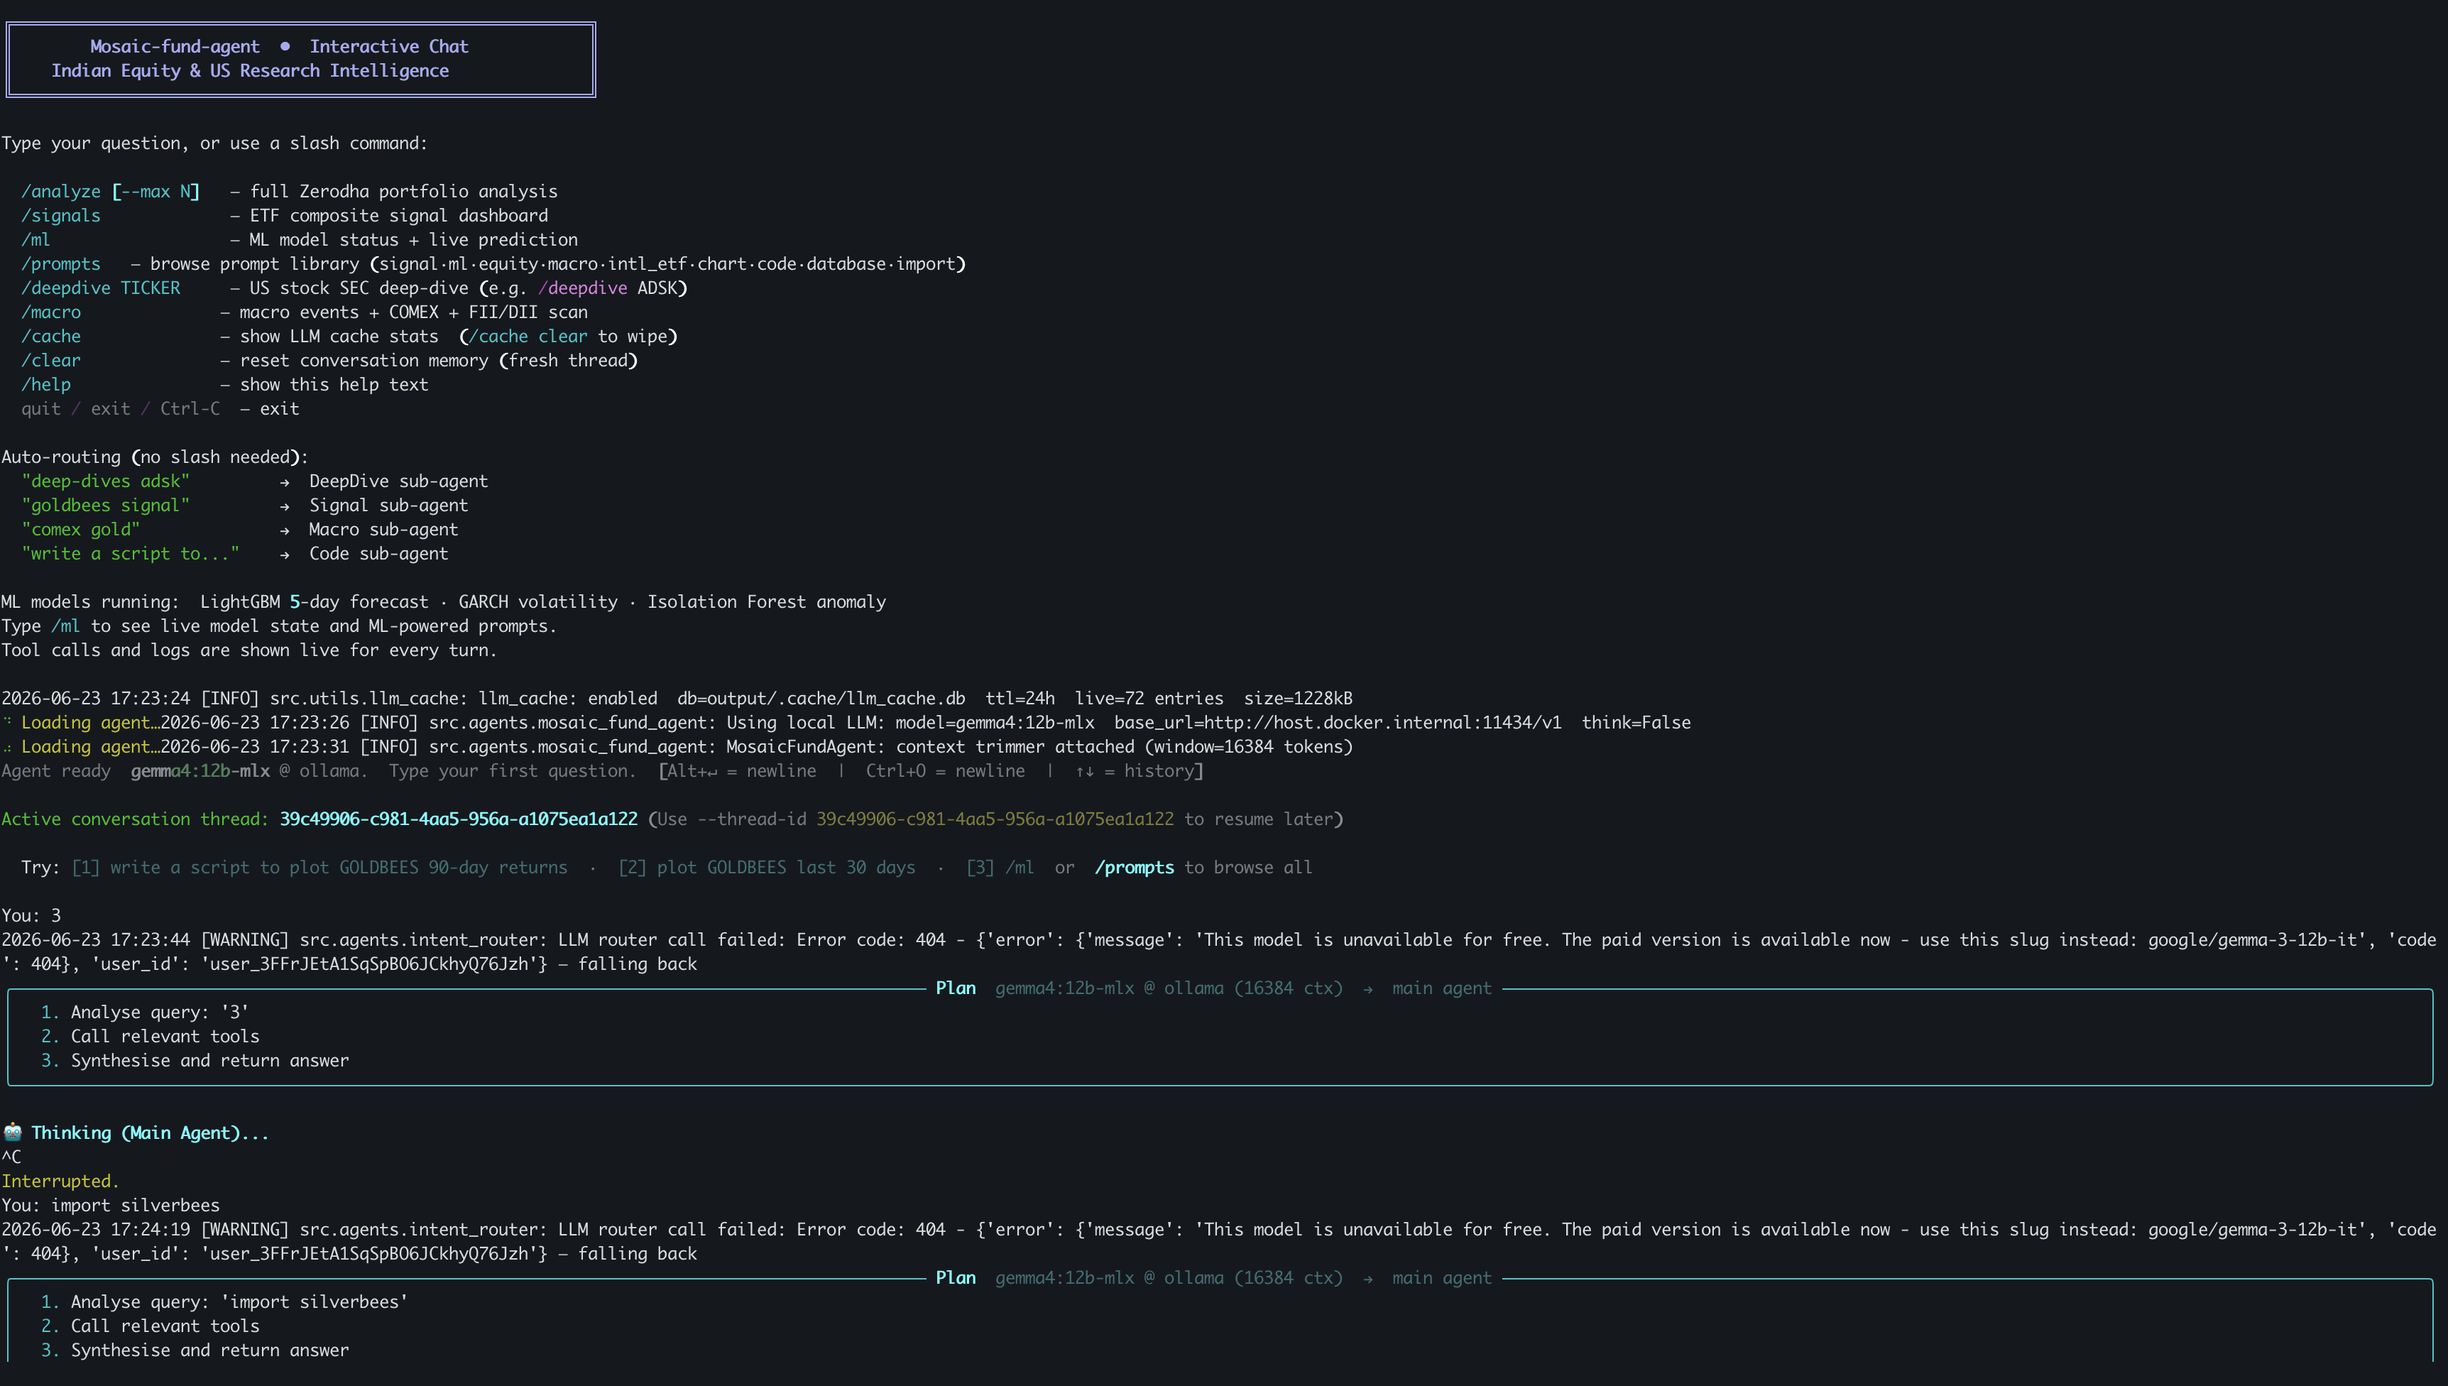
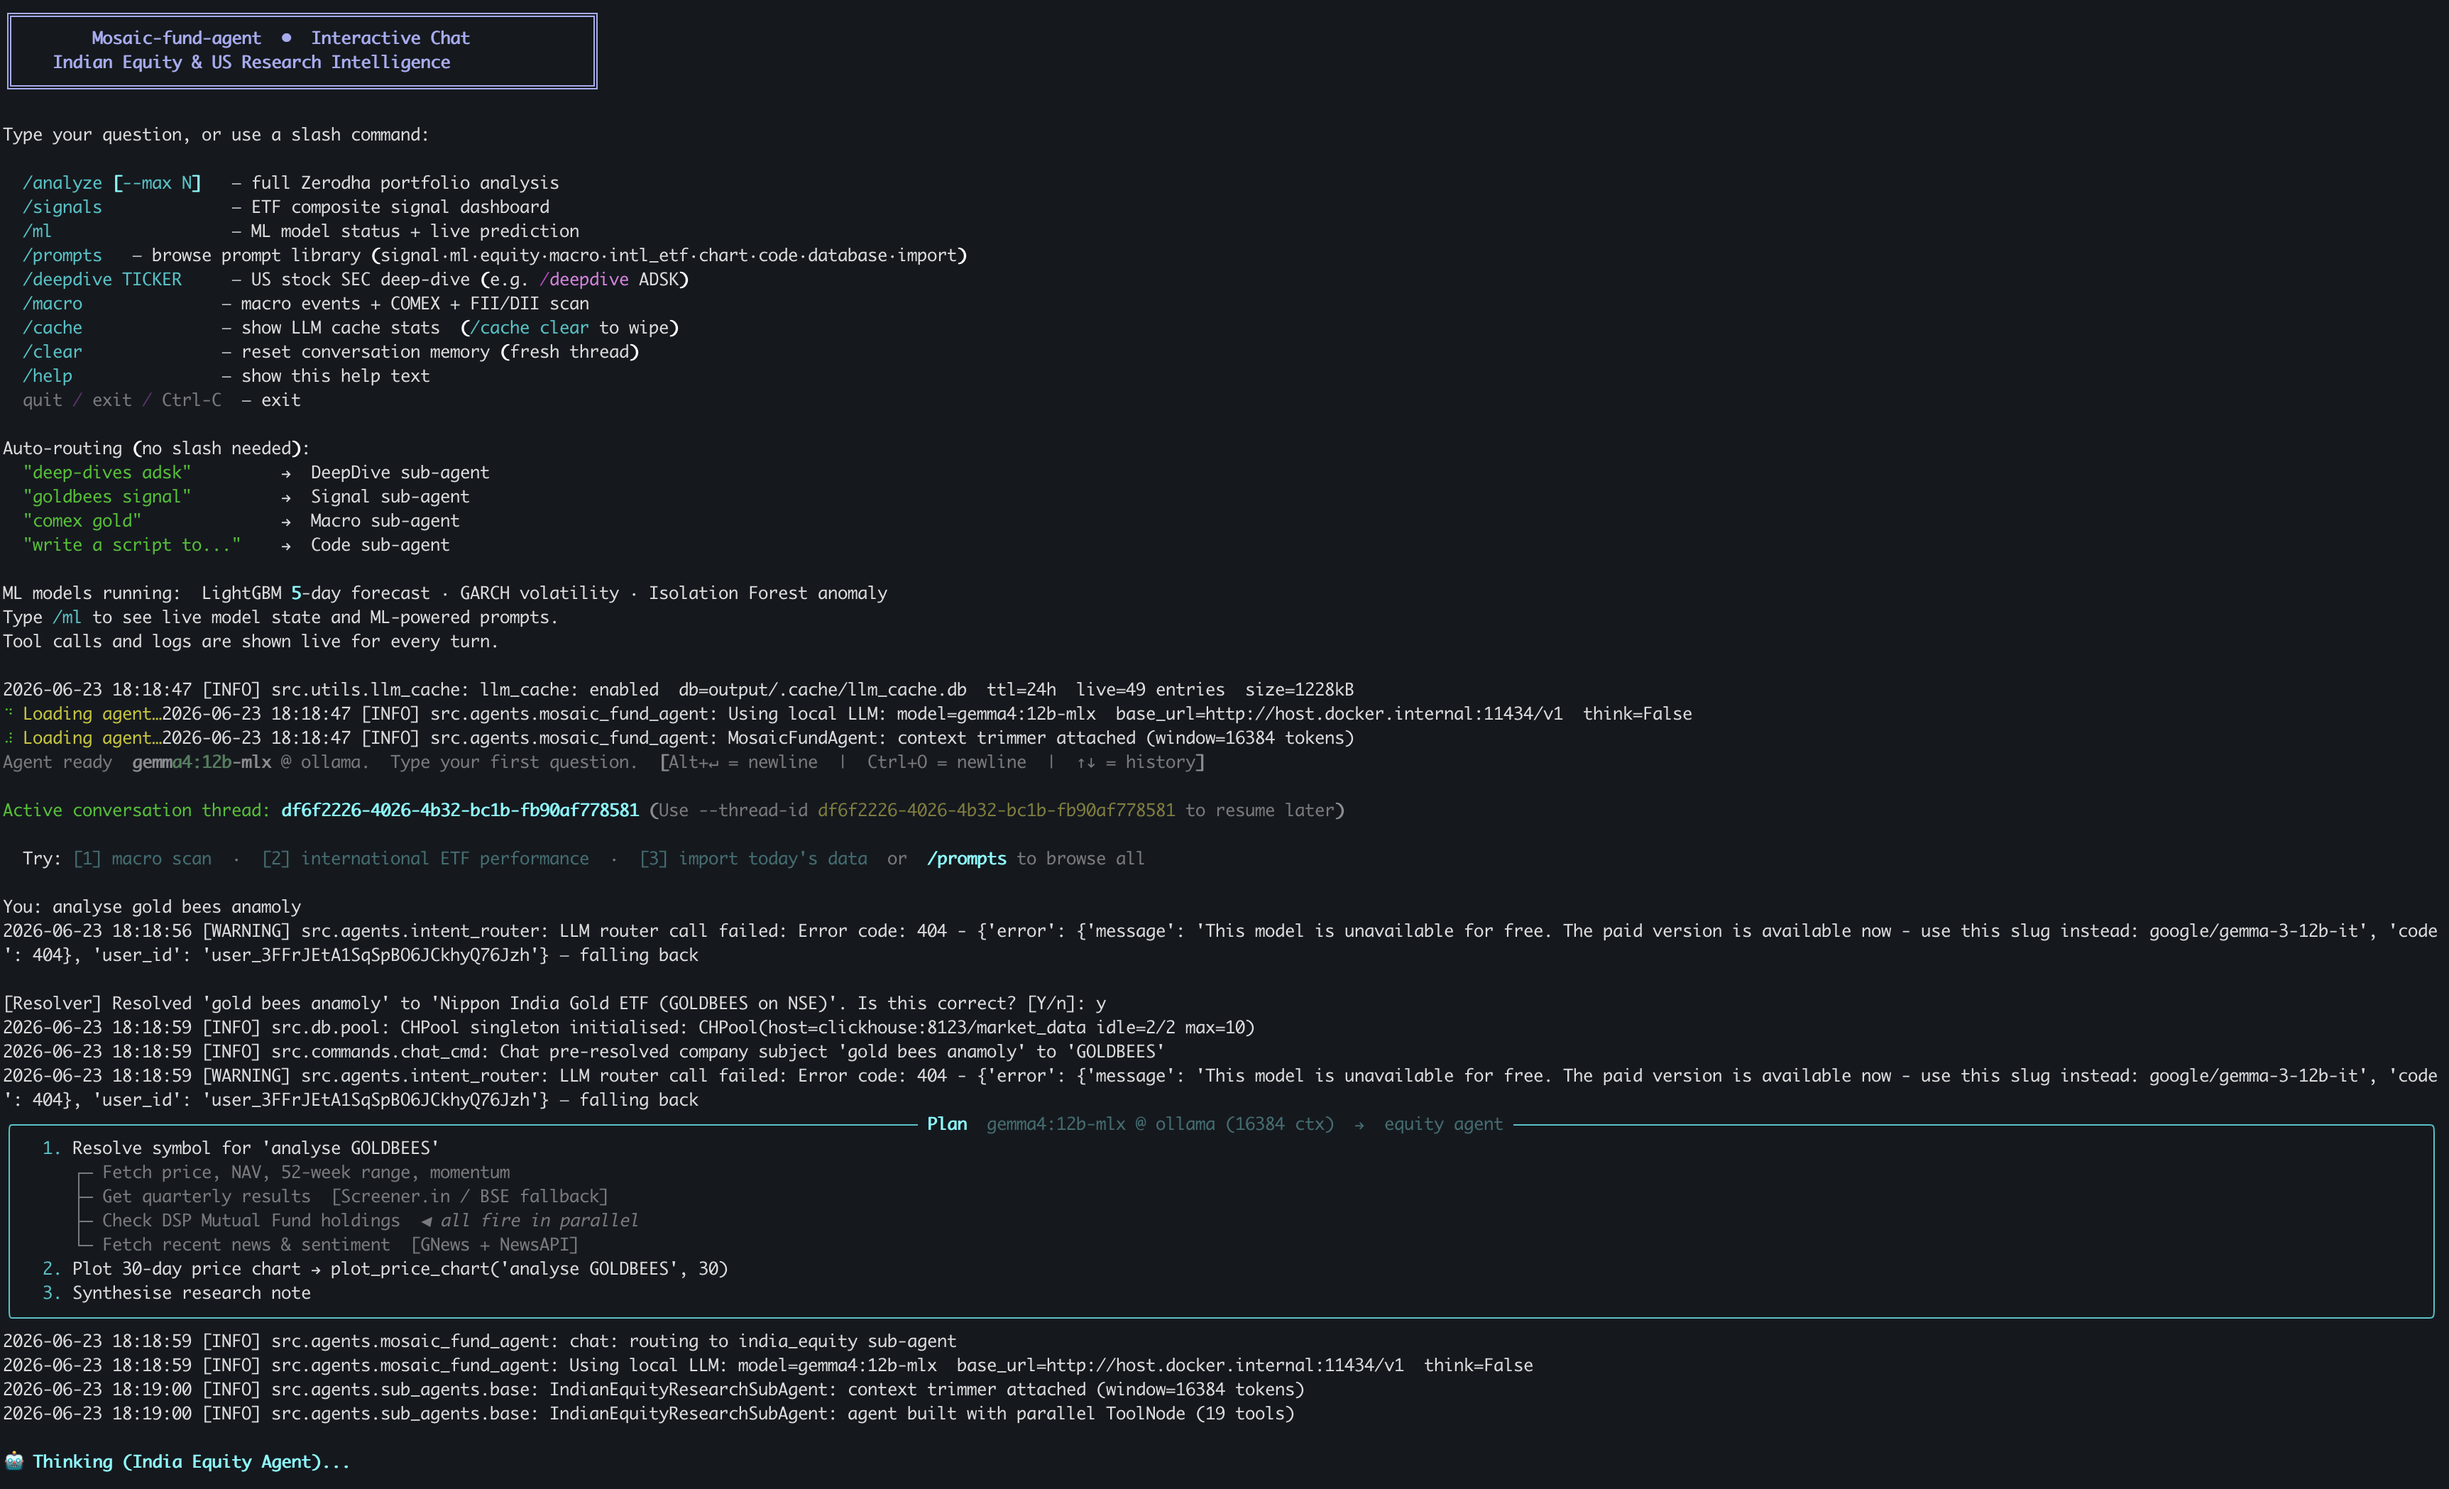
feat(site): use richer CLI screenshot showing resolver + parallel plan
New cli.png shows the full flow: symbol resolution with user confirmation,
the live execution plan tree (fetch price/NAV/earnings/MF/news in parallel →
plot → synthesise), and routing to the india_equity sub-agent. Caption
updated to match — 'just type, it shows its work'.

diff --git a/website/index.html b/website/index.html
@@ -620,8 +620,8 @@
       <div class="gallery-item reveal">
         <img src="screenshots/cli.png" alt="Mosaic interactive CLI chat" loading="lazy" />
         <div class="gallery-caption">
-          <div class="gc-title">💬 Interactive CLI — just type, no commands needed</div>
-          <div class="gc-desc">Auto-routes to the right specialist agent. LightGBM 5-day forecast · GARCH volatility · Isolation Forest anomaly running in the background. Works with local Ollama or any cloud LLM.</div>
+          <div class="gc-title">💬 Interactive CLI — just type, it shows its work</div>
+          <div class="gc-desc">Ask "analyse gold bees anomaly" — Mosaic resolves the symbol (and confirms it), then prints a live plan: fetch price, NAV, earnings, MF holdings, and news all in parallel, plot the chart, synthesise. Runs on local Ollama or any cloud LLM.</div>
         </div>
       </div>
     </div>
